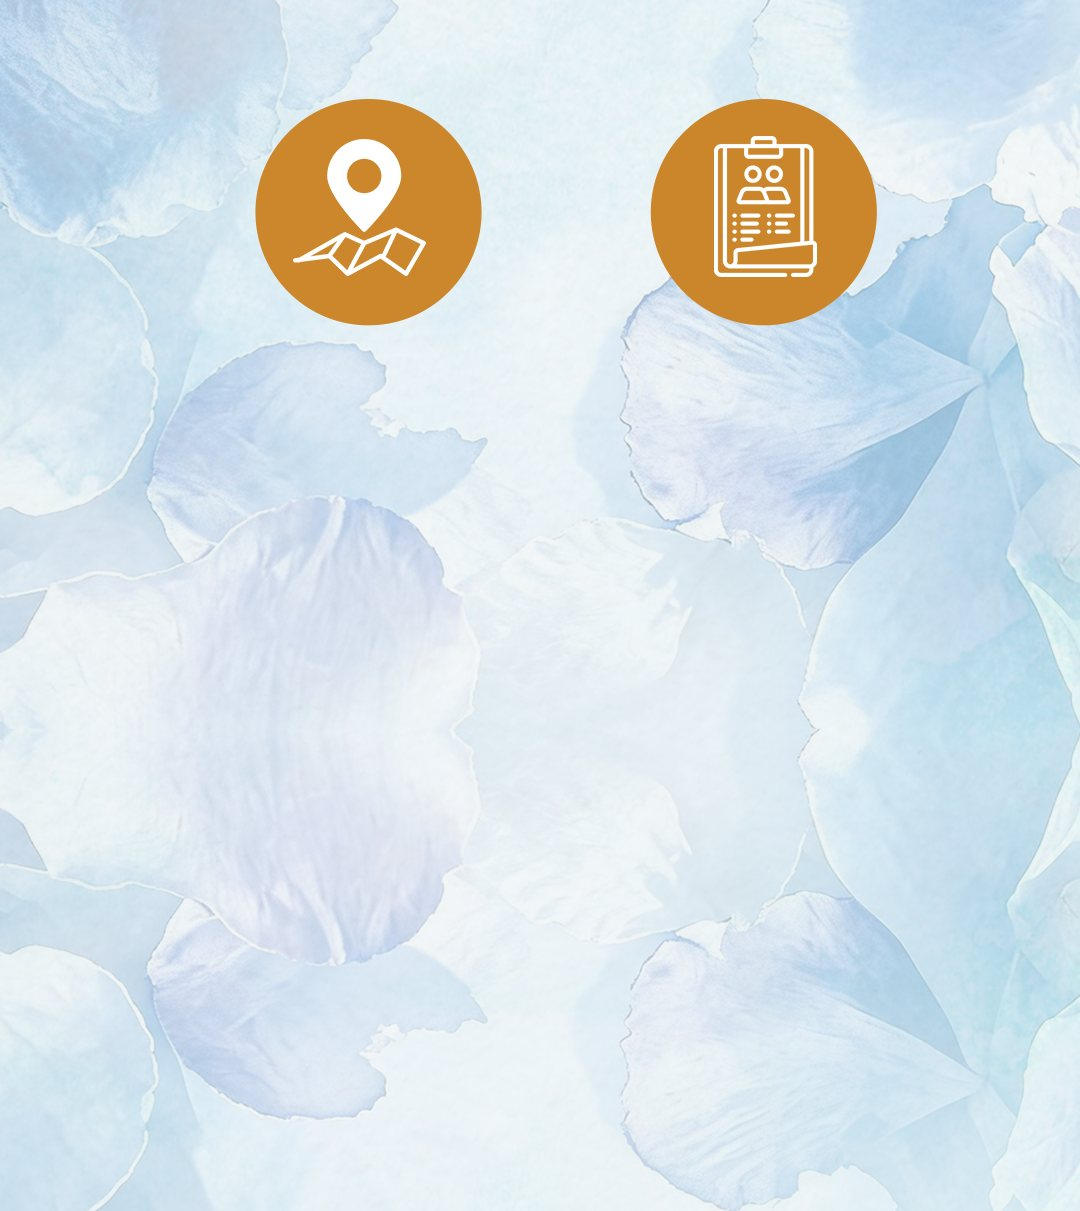
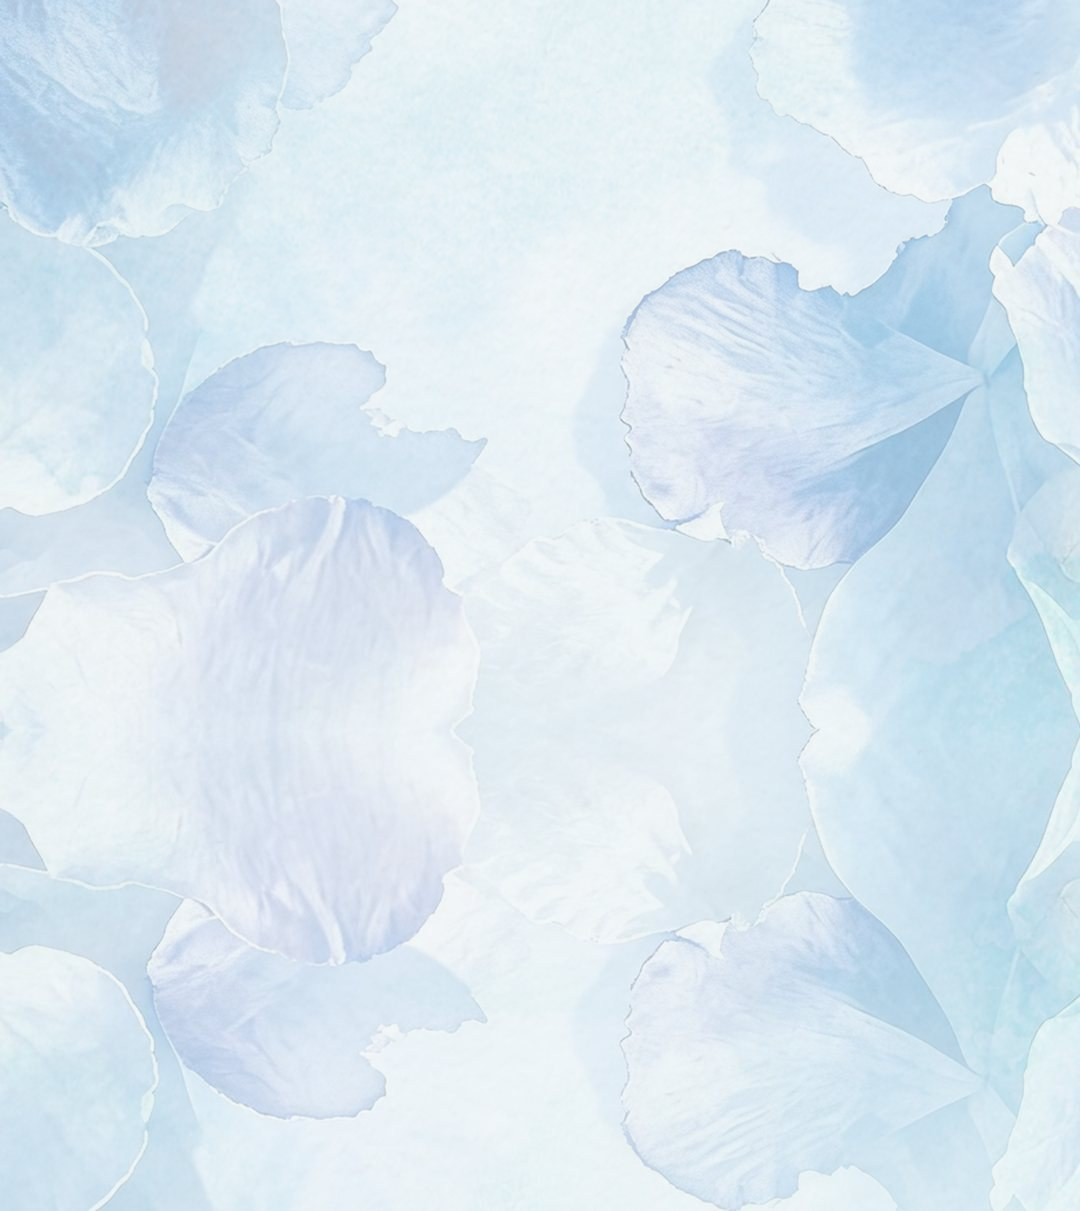
Lista de presentes: terceiro ícone e janela com a lista
Claude-Session: https://claude.ai/code/session_01Y1f8HjJX5pHQrYCh3Me875

Changed region(s): [[0.5806, 0.0611, 0.825, 0.275], [0.2139, 0.0611, 0.4583, 0.275]]

diff --git a/index.html b/index.html
@@ -116,7 +116,10 @@
   .chegou{display:none;margin-top:calc(var(--u)*30);font-family:"Pinyon Script",cursive;font-size:calc(var(--u)*96);color:var(--ouro)}
 
   /* ícones clicáveis */
-  .ponto{width:21.2%;aspect-ratio:1;transform:translate(-50%,-50%);border-radius:50%;cursor:pointer;border:0;background:transparent}
+  .ponto{width:19.444%;aspect-ratio:1;transform:translate(-50%,-50%) scale(.55);opacity:0;border-radius:50%;cursor:pointer;border:0;padding:0;background:transparent;transition:opacity .7s ease,transform 1s cubic-bezier(.2,1.45,.4,1)}
+  .ponto.visto{opacity:1;transform:translate(-50%,-50%)}
+  .ponto img{display:block;width:100%;height:100%;border-radius:50%}
+  .ponto:active img{transform:scale(.95)}
   .ponto:focus-visible{outline:2px solid var(--ouro);outline-offset:4px}
   .ponto::after{content:"";position:absolute;inset:0;border-radius:50%;animation:halo 2.6s ease-in-out infinite}
   @keyframes halo{0%,100%{box-shadow:0 0 0 0 rgba(203,164,94,0)}50%{box-shadow:0 0 24px 7px rgba(203,164,94,.4)}}
@@ -133,6 +136,13 @@
   #rsvp .aviso{position:absolute;inset:0;display:flex;align-items:center;justify-content:center;padding:30px;text-align:center;font-size:22px;color:var(--ouro-escuro)}
   #rsvp .fechar{position:absolute;top:8px;right:8px;z-index:2;width:38px;height:38px;border-radius:50%;border:1px solid rgba(203,164,94,.6);background:rgba(251,250,246,.95);color:var(--ouro-escuro);font-size:22px;line-height:1;cursor:pointer}
 
+  /* lista de presentes (igual ao convite da Anna Lua) */
+  .presentes{position:fixed;inset:0;z-index:50;display:flex;align-items:center;justify-content:center;background:rgba(40,60,100,.55);backdrop-filter:blur(4px);opacity:0;pointer-events:none;transition:opacity .4s}
+  .presentes.aberta{opacity:1;pointer-events:auto}
+  .presentes img{display:block;width:min(100vw,calc(100vh * 9 / 16));height:auto;max-height:100vh;box-shadow:0 18px 50px rgba(20,40,80,.4);transform:scale(.96);transition:transform .4s}
+  .presentes.aberta img{transform:none}
+  .presentes button{position:absolute;top:calc(14px + env(safe-area-inset-top));right:14px;width:44px;height:44px;border-radius:50%;border:1px solid rgba(203,164,94,.7);background:rgba(251,250,246,.92);color:var(--ouro-escuro);font-size:24px;line-height:1;cursor:pointer}
+
   /* música */
   #som{position:fixed;right:14px;bottom:calc(14px + env(safe-area-inset-bottom));z-index:30;width:46px;height:46px;border-radius:50%;border:1px solid rgba(203,164,94,.55);background:rgba(251,250,246,.88);backdrop-filter:blur(4px);display:none;align-items:center;justify-content:center;cursor:pointer;box-shadow:0 4px 14px rgba(40,70,120,.15)}
   #som.ativo{display:flex}
@@ -145,6 +155,7 @@
     .flor,.sobe,.d1,.d3,.d4,.d5{opacity:1!important;transform:none!important;transition:none!important}
     .escrita{-webkit-mask-image:none;mask-image:none}
     .d2{transform:none!important}
+    .ponto{opacity:1!important;transform:translate(-50%,-50%)!important;transition:none!important}
   }
 </style>
 </head>
@@ -195,8 +206,9 @@
 <img class="peca escrita" data-anim src="img/t-localizacao.png" alt="Localização" style="left:28.056%;top:61.920%;width:43.333%">
 <img class="peca sobe" data-anim src="img/t-alameda-das-framboesas-1.png" alt="Alameda das Framboesas, 151 - Caminho das Árvores, Salvador - BA" style="left:21.204%;top:65.349%;width:57.870%">
 <canvas class="aquarela" data-img="img/local.webp" data-anim aria-label="Ilustração em aquarela do local da festa" style="left:8.333%;top:67.250%;width:83.241%"></canvas>
-<img class="peca sobe" data-anim src="img/t-rotulo-localizacao.png" alt="Localização" style="left:21.667%;top:88.955%;width:24.907%">
-<img class="peca sobe" data-anim src="img/t-confirme-sua-presenca.png" alt="Confirme sua presença" style="left:57.778%;top:88.982%;width:25.833%">
+<img class="peca sobe" data-anim src="img/t-rotulo-localizacao.png" alt="Localização" style="left:6.528%;top:88.955%;width:24.907%">
+<img class="peca sobe" data-anim src="img/t-confirme-sua-presenca.png" alt="Confirme sua presença" style="left:37.083%;top:88.982%;width:25.833%">
+<img class="peca sobe" data-anim src="img/t-lista-de-presentes.png" alt="Lista de presentes" style="left:70.972%;top:88.982%;width:20.093%">
 <img class="peca sobe" data-anim src="img/t-clique-no-icone-para-int.png" alt="Clique no ícone para interagir" style="left:28.981%;top:91.447%;width:42.130%">
 
       <section class="contagem" id="contagem" data-anim aria-label="Contagem regressiva para a festa">
@@ -210,12 +222,18 @@
         <div class="chegou" id="chegou">Chegou o grande dia!</div>
       </section>
 
-      <a class="ponto" style="left:34.120%;top:86.249%" target="_blank" rel="noopener" aria-label="Abrir localização no Google Maps"
-         href="https://www.google.com/maps/search/?api=1&query=Alameda%20das%20Framboesas%2C%20151%20-%20Caminho%20das%20%C3%81rvores%2C%20Salvador%20-%20BA"></a>
-      <button class="ponto" id="abrir-rsvp" type="button" style="left:70.694%;top:86.249%" aria-label="Confirmar presença"></button>
+      <a class="ponto" data-anim style="left:18.981%;top:86.249%" target="_blank" rel="noopener" aria-label="Abrir localização no Google Maps"
+         href="https://www.google.com/maps/search/?api=1&query=Alameda%20das%20Framboesas%2C%20151%20-%20Caminho%20das%20%C3%81rvores%2C%20Salvador%20-%20BA"><img src="img/icone-mapa.png" alt=""></a>
+      <button class="ponto" data-anim id="abrir-rsvp" type="button" style="left:50%;top:86.249%;transition-delay:.15s" aria-label="Confirmar presença"><img src="img/icone-rsvp.png" alt=""></button>
+      <button class="ponto" data-anim id="abrir-presentes" type="button" style="left:81.019%;top:86.249%;transition-delay:.3s" aria-label="Ver lista de presentes"><img src="img/icone-lista.png" alt=""></button>
     </div>
   </div>
 </main>
+
+<div class="presentes" id="presentes" role="dialog" aria-modal="true" aria-label="Lista de presentes">
+  <img src="img/lista.jpg" alt="Lista de presentes. O que eu amaria ganhar: perfume, acessórios, bolsas, make, berloque da Vivara, calçado (tam. 38/39), blusas (tam. P/M), short (tam. 36). Minhas marcas favoritas: C&amp;A, Centauro, Farm, Wepink, Vivara, Youcom, Rommanel, Florenza, Bell Cosméticos, Melissa, Carmen Steffens, Avatim, Eudora, Renner.">
+  <button type="button" id="fechar-presentes" aria-label="Fechar">×</button>
+</div>
 
 <div id="rsvp" role="dialog" aria-modal="true" aria-label="Confirmação de presença">
   <div class="janela">
@@ -394,7 +412,12 @@
   function fecharRsvp(){ rsvp.classList.remove('aberto'); document.body.style.overflow=''; }
   rsvp.querySelector('.fechar').addEventListener('click',fecharRsvp);
   rsvp.addEventListener('click',function(e){ if(e.target===rsvp) fecharRsvp(); });
-  document.addEventListener('keydown',function(e){ if(e.key==='Escape') fecharRsvp(); });
+  var presentes=document.getElementById('presentes');
+  document.getElementById('abrir-presentes').addEventListener('click',function(){ presentes.classList.add('aberta'); document.body.style.overflow='hidden'; });
+  function fecharPresentes(){ presentes.classList.remove('aberta'); document.body.style.overflow=''; }
+  document.getElementById('fechar-presentes').addEventListener('click',fecharPresentes);
+  presentes.addEventListener('click',function(e){ if(e.target===presentes) fecharPresentes(); });
+  document.addEventListener('keydown',function(e){ if(e.key==='Escape'){ fecharRsvp(); fecharPresentes(); } });
 
   /* ---------- pétalas caindo (discretas) ---------- */
   var cv=document.getElementById('petalas'), ctx2=cv.getContext('2d'), dpr=1, W=0, H=0, petalas=[], sprites=[], rodando=false, pausado=false, ult=0;
